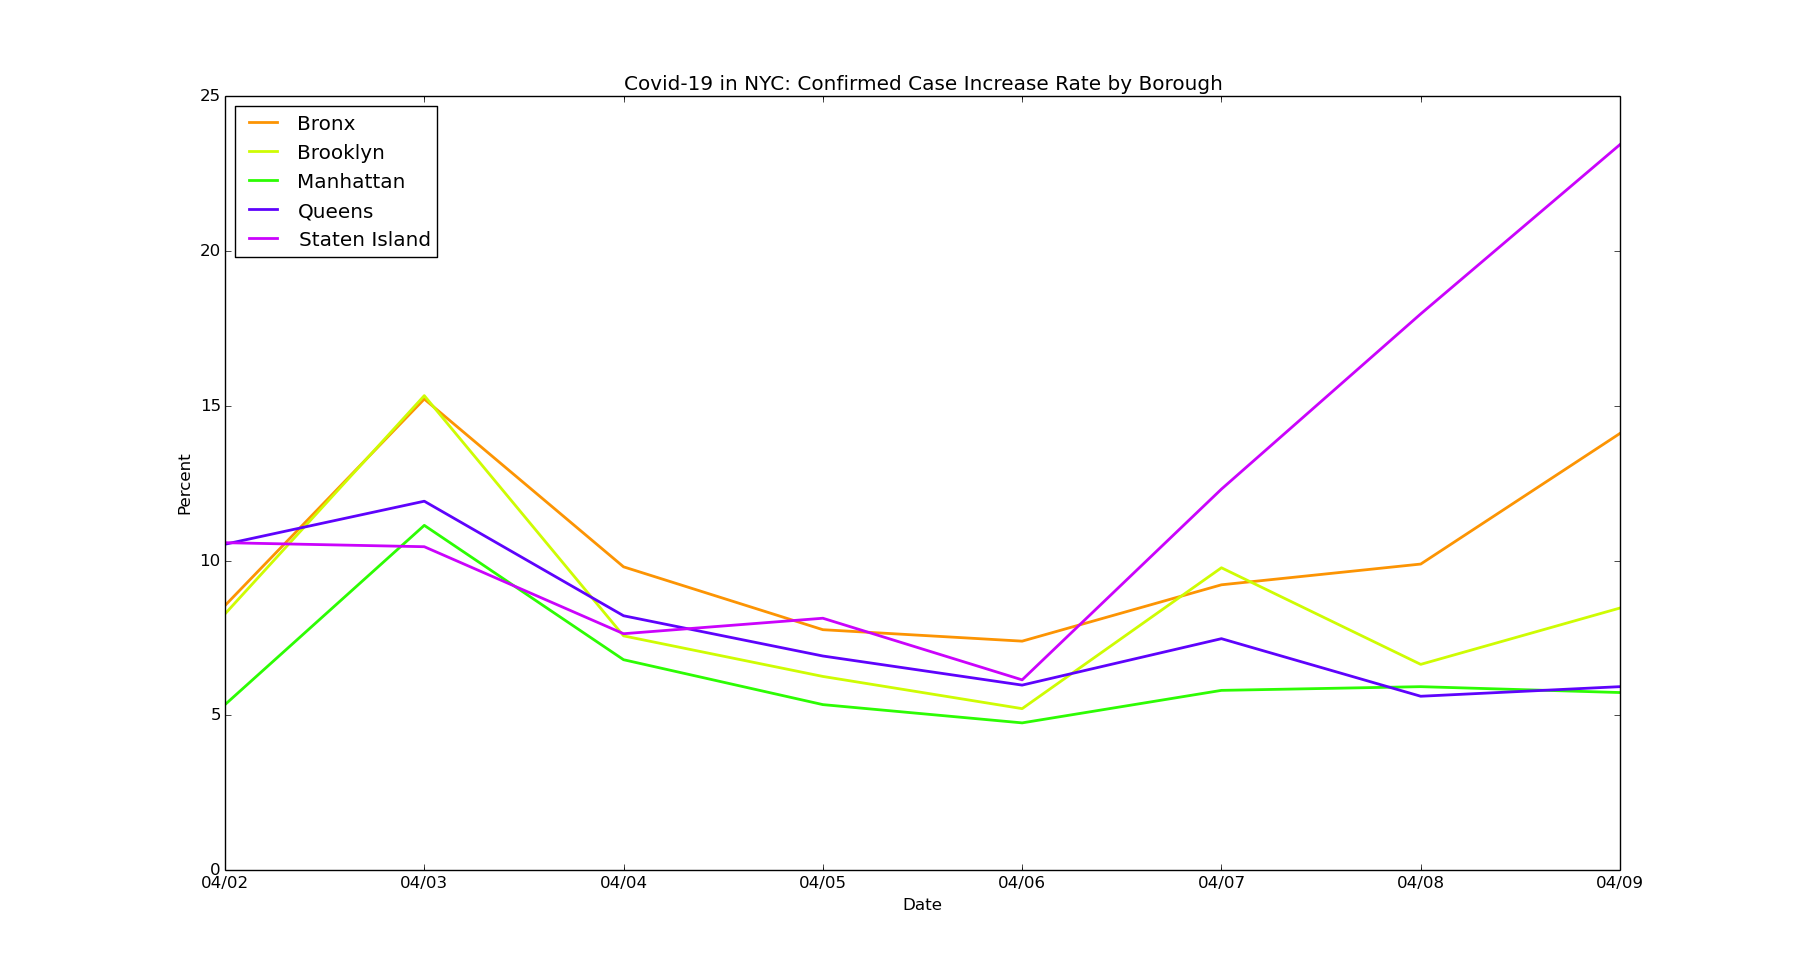
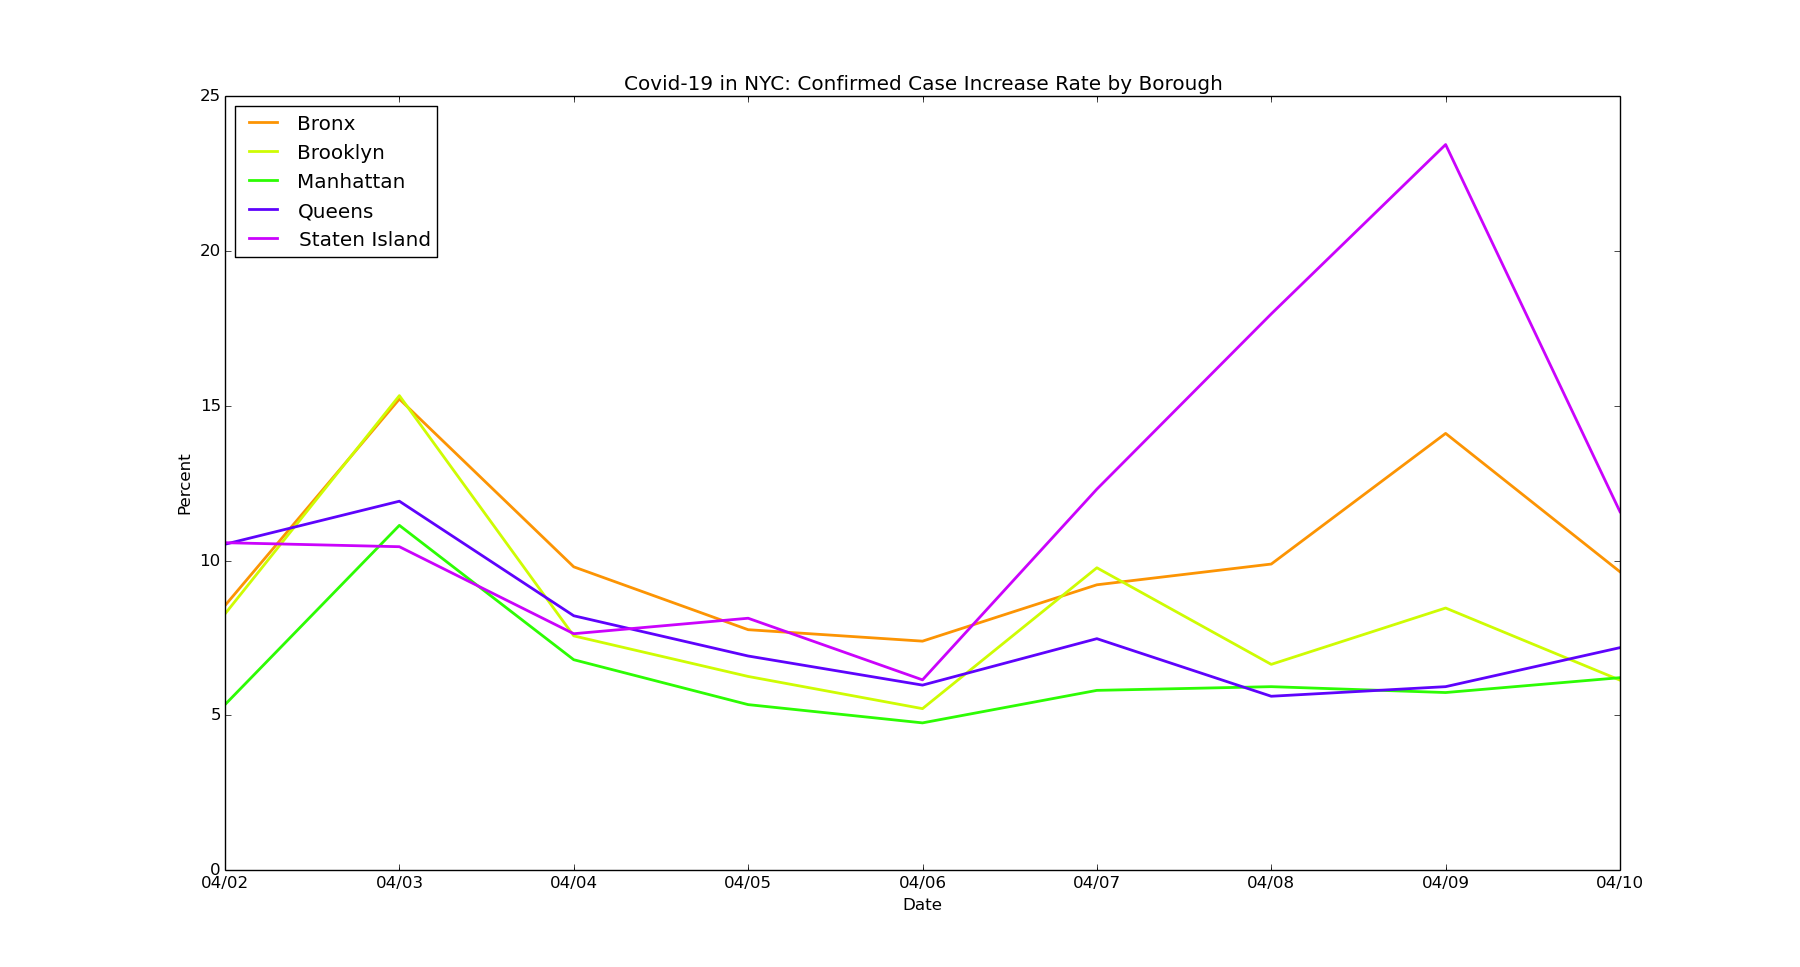
chore: Update data for NYC for 4/10

diff --git a/nyc/nyc-new-cases.py b/nyc/nyc-new-cases.py
@@ -1,12 +1,10 @@
-# line graph of new cases in NYC
-
 import datetime as dt
 import matplotlib.pyplot as plt
 import matplotlib.dates as mdates
 import matplotlib.ticker as ticker
 from matplotlib.dates import MO, TU, WE, TH, FR, SA, SU
 
-dates = ['2/29/2020', '3/1/2020', '3/2/2020', '3/3/2020', '3/4/2020', '3/5/2020', '3/6/2020', '3/7/2020', '3/8/2020', '3/9/2020', '3/10/2020', '3/11/2020', '3/12/2020', '3/13/2020', '3/14/2020', '3/15/2020', '3/16/2020', '3/17/2020', '3/18/2020', '3/19/2020', '3/20/2020', '3/21/2020', '3/22/2020', '3/23/2020', '3/24/2020', '3/25/2020', '3/26/2020', '3/27/2020', '3/28/2020', '3/29/2020', '3/30/2020', '3/31/2020', '4/1/2020', '4/2/2020', '4/3/2020', '4/4/2020', '4/5/2020', '4/6/2020', '4/7/2020', '4/8/2020', '4/9/2020']
+dates = ['2/29/2020', '3/1/2020', '3/2/2020', '3/3/2020', '3/4/2020', '3/5/2020', '3/6/2020', '3/7/2020', '3/8/2020', '3/9/2020', '3/10/2020', '3/11/2020', '3/12/2020', '3/13/2020', '3/14/2020', '3/15/2020', '3/16/2020', '3/17/2020', '3/18/2020', '3/19/2020', '3/20/2020', '3/21/2020', '3/22/2020', '3/23/2020', '3/24/2020', '3/25/2020', '3/26/2020', '3/27/2020', '3/28/2020', '3/29/2020', '3/30/2020', '3/31/2020', '4/1/2020', '4/2/2020', '4/3/2020', '4/4/2020', '4/5/2020', '4/6/2020', '4/7/2020', '4/8/2020', '4/9/2020', '4/10/2020']
 
 # format dates
 x_values = [dt.datetime.strptime(d, "%m/%d/%Y").date() for d in dates]
@@ -33,7 +31,7 @@ plt.axvline(dt.datetime(2020, 3, 20), linestyle='--', color='red', linewidth=2, 
 plt.axvline(dt.datetime(2020, 3, 22), color='black', linewidth=2, label='stay at home')
 
 # new cases by day
-new_cases = [0, 1, 0, 0, 0, 3, 0, 7, 9, 7, 5, 23, 47, 59, 115, 60, 485, 109, 1086, 1606, 2068, 2432, 2649, 2355, 2478, 4414, 3101, 3585, 4033, 2744, 4613, 5052, 4210, 2358, 6582, 4561, 4105, 3821, 5825, 5603, 7521]
+new_cases = [0, 1, 0, 0, 0, 3, 0, 7, 9, 7, 5, 23, 47, 59, 115, 60, 485, 109, 1086, 1606, 2068, 2432, 2649, 2355, 2478, 4414, 3101, 3585, 4033, 2744, 4613, 5052, 4210, 2358, 6582, 4561, 4105, 3821, 5825, 5603, 7521, 6684]
 
 # text labels
 plt.title('Covid-19 in NYC: New Cases')

diff --git a/nyc/nyc-deaths-new.py b/nyc/nyc-deaths-new.py
@@ -1,12 +1,10 @@
-# line graph of new deaths in NYC
-
 import datetime
 import matplotlib.pyplot as plt
 import matplotlib.dates as mdates
 import matplotlib.ticker as ticker
 from matplotlib.dates import MO, TU, WE, TH, FR, SA, SU
 
-dates = ['3/12/2020', '3/13/2020', '3/14/2020', '3/15/2020', '3/16/2020', '3/17/2020', '3/18/2020', '3/19/2020', '3/20/2020', '3/21/2020', '3/22/2020', '3/23/2020', '3/24/2020', '3/25/2020', '3/26/2020', '3/27/2020', '3/28/2020', '3/29/2020', '3/30/2020', '3/31/2020', '4/1/2020', '4/2/2020', '4/3/2020', '4/4/2020', '4/5/2020', '4/6/2020', '4/7/2020', '4/8/2020', '4/9/2020']
+dates = ['3/12/2020', '3/13/2020', '3/14/2020', '3/15/2020', '3/16/2020', '3/17/2020', '3/18/2020', '3/19/2020', '3/20/2020', '3/21/2020', '3/22/2020', '3/23/2020', '3/24/2020', '3/25/2020', '3/26/2020', '3/27/2020', '3/28/2020', '3/29/2020', '3/30/2020', '3/31/2020', '4/1/2020', '4/2/2020', '4/3/2020', '4/4/2020', '4/5/2020', '4/6/2020', '4/7/2020', '4/8/2020', '4/9/2020', '4/10/2020']
 
 # format dates
 x_values = [datetime.datetime.strptime(d, "%m/%d/%Y").date() for d in dates]
@@ -24,7 +22,7 @@ ax.xaxis.set_minor_locator(mdates.WeekdayLocator(byweekday=(MO, TU, WE, TH, FR, 
 ax.get_yaxis().set_major_formatter(ticker.FuncFormatter(lambda x, pos: format(int(x), ',')))
 
 # new deaths by day
-new_deaths = [0, 1, 1, 3, 2, 3, 1, 11, 21, 17, 39, 26, 7, 88, 85, 85, 222, 104, 138, 182, 278, 188, 305, 387, 218, 266, 806, 716, 518]
+new_deaths = [0, 1, 1, 3, 2, 3, 1, 11, 21, 17, 39, 26, 7, 88, 85, 85, 222, 104, 138, 182, 278, 188, 305, 387, 218, 266, 806, 716, 518, 651]
 
 # text labels
 plt.title('Covid-19 in NYC: New Fatalities')

diff --git a/nyc/nyc-cases-by-boro.py b/nyc/nyc-cases-by-boro.py
@@ -4,7 +4,7 @@ import matplotlib.dates as mdates
 import matplotlib.ticker as ticker
 from matplotlib.dates import MO, TU, WE, TH, FR, SA, SU
 
-dates = ['4/2/2020', '4/3/2020', '4/4/2020', '4/5/2020', '4/6/2020', '4/7/2020', '4/8/2020', '4/9/2020']
+dates = ['4/2/2020', '4/3/2020', '4/4/2020', '4/5/2020', '4/6/2020', '4/7/2020', '4/8/2020', '4/9/2020', '4/10/2020']
 
 # format dates
 x_values = [datetime.datetime.strptime(d, "%m/%d/%Y").date() for d in dates]
@@ -20,15 +20,15 @@ ax.xaxis.set_minor_locator(mdates.WeekdayLocator(byweekday=(MO, TU, WE, TH, FR, 
 # format y-axis
 ax.get_yaxis().set_major_formatter(ticker.FuncFormatter(lambda x, pos: format(int(x), ',')))
 
-bronx = [8.55, 15.22, 9.8, 7.77, 7.4, 9.22, 9.89, 14.11]
+bronx = [8.55, 15.22, 9.8, 7.77, 7.4, 9.22, 9.89, 14.11, 9.64]
 
-brooklyn = [8.28, 15.33, 7.57, 6.26, 5.22, 9.77, 6.65, 8.47]
+brooklyn = [8.28, 15.33, 7.57, 6.26, 5.22, 9.77, 6.65, 8.47, 6.14]
 
-manhattan = [5.35, 11.14, 6.8, 5.35, 4.76, 5.81, 5.93, 5.74]
+manhattan = [5.35, 11.14, 6.8, 5.35, 4.76, 5.81, 5.93, 5.74, 6.22]
 
-queens = [10.53, 11.92, 8.22, 6.92, 5.98, 7.48, 5.62, 5.93]
+queens = [10.53, 11.92, 8.22, 6.92, 5.98, 7.48, 5.62, 5.93, 7.19]
 
-staten = [10.58, 10.45, 7.64, 8.14, 6.15, 12.31, 17.97, 23.44]
+staten = [10.58, 10.45, 7.64, 8.14, 6.15, 12.31, 17.97, 23.44, 11.58]
 
 
 # create the graph
